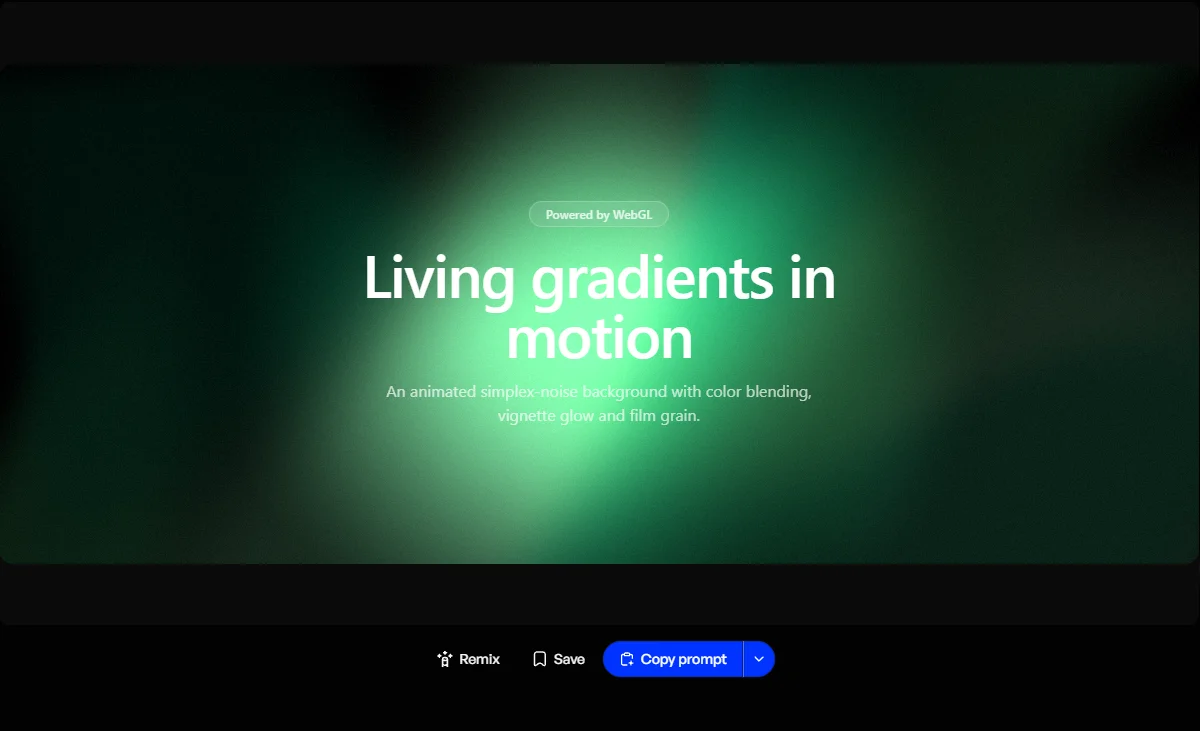
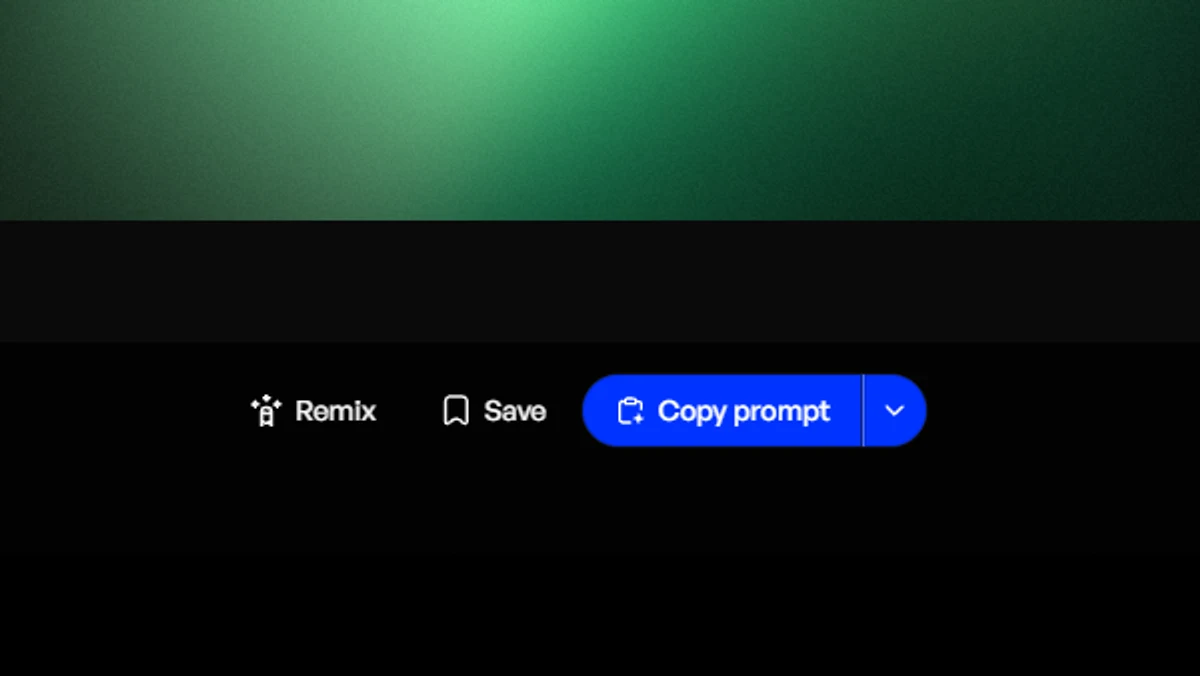
ghid: captura pasului 13 în 16:9, cu butonul deasupra legendei; regula capturilor în standard

diff --git a/.claude/skills/ghid-nou/standard.md b/.claude/skills/ghid-nou/standard.md
@@ -63,6 +63,8 @@ Reguli:
 - `<Pas titlu="…">` cu **ghilimele duble**; titlul e acțiunea, la persoana a doua („Instalezi…”, „Alegi…”).
 - Un `<Prompt>` conține doar textul de copiat, fără explicații în el.
 - `<CeVezi src alt />`: fișierul e în `site/public/ghiduri/<slug>/`, cu numele `pas-N-ce-arata.webp`. `alt` spune ce se vede („Claude confirmă că…”). Capturile pe care le face Andrei rămân deocamdată fără fișier și apar pe site ca „captură de pus: {alt}”. Fă-i lista lor: pasul, ce să capteze, numele fișierului.
+- Capturile (le face Claude, nu se iau de pe net): **16:9** (rama le taie la 16:9), apropiate de ce contează, ca să se citească pe telefon, iar lucrul important în primele **două treimi**, pentru că legenda acoperă ultimul sfert. Verifică-le în pagină, la 390px.
+- Fără capturi cu rezultatul unui prompt (site-ul generat, răspunsul lui Claude): diferă la fiecare om, deci nu ajută.
 - `<Pas` scris ca exemplu într-un bloc de cod nu contează ca pas.
 
 ## Tonul
